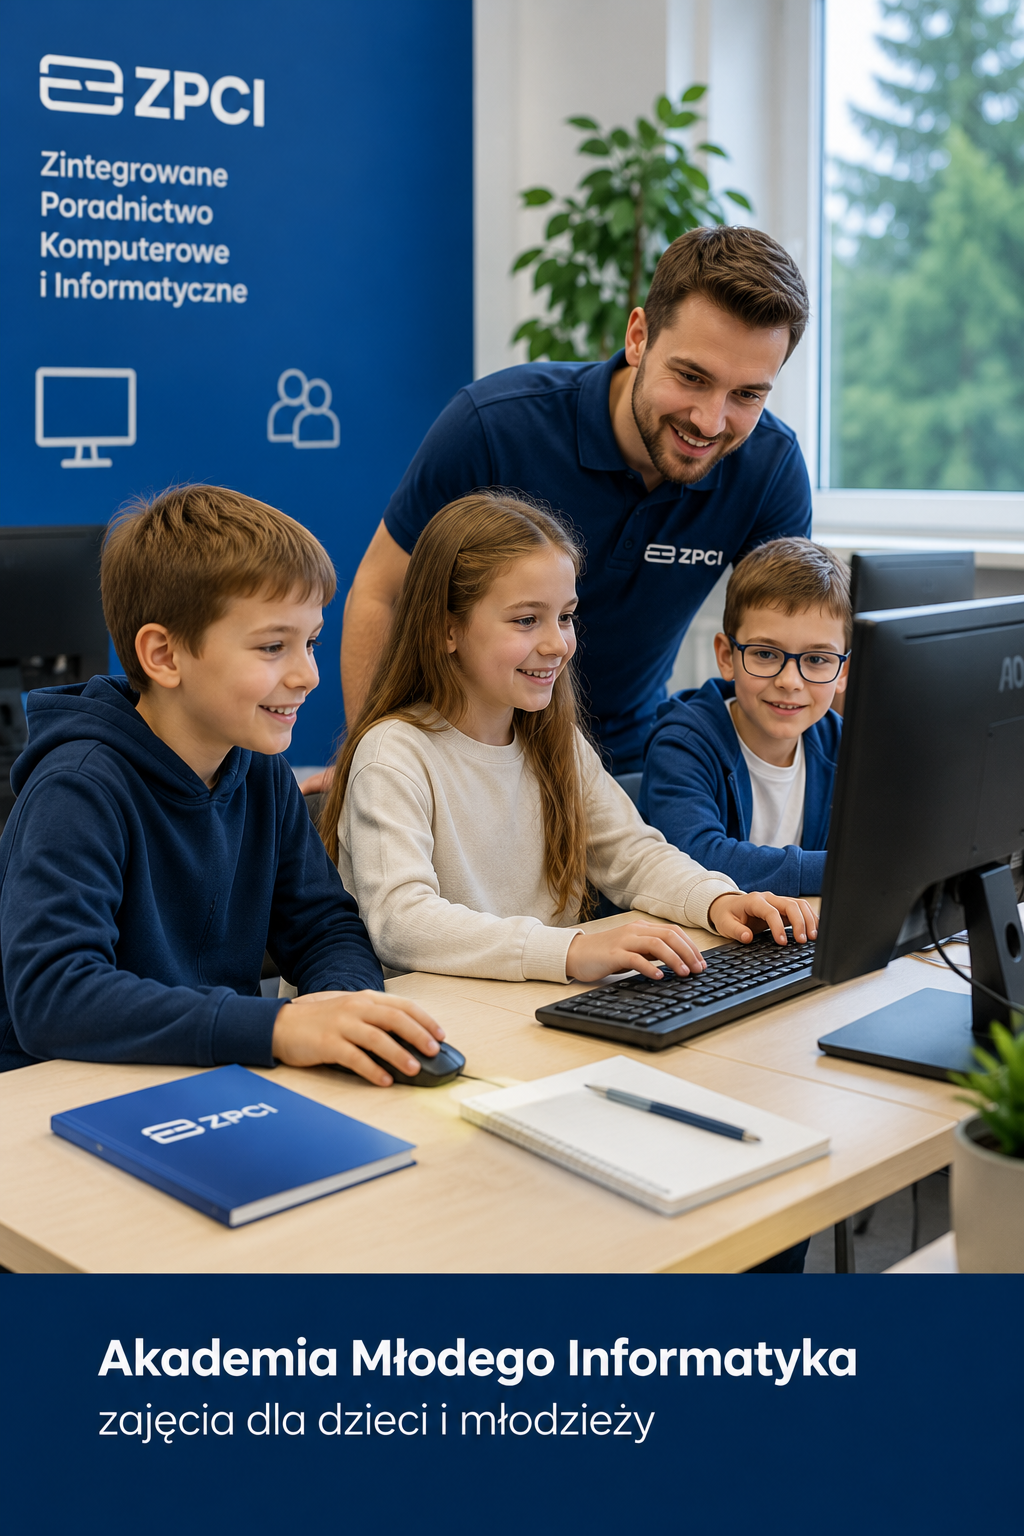
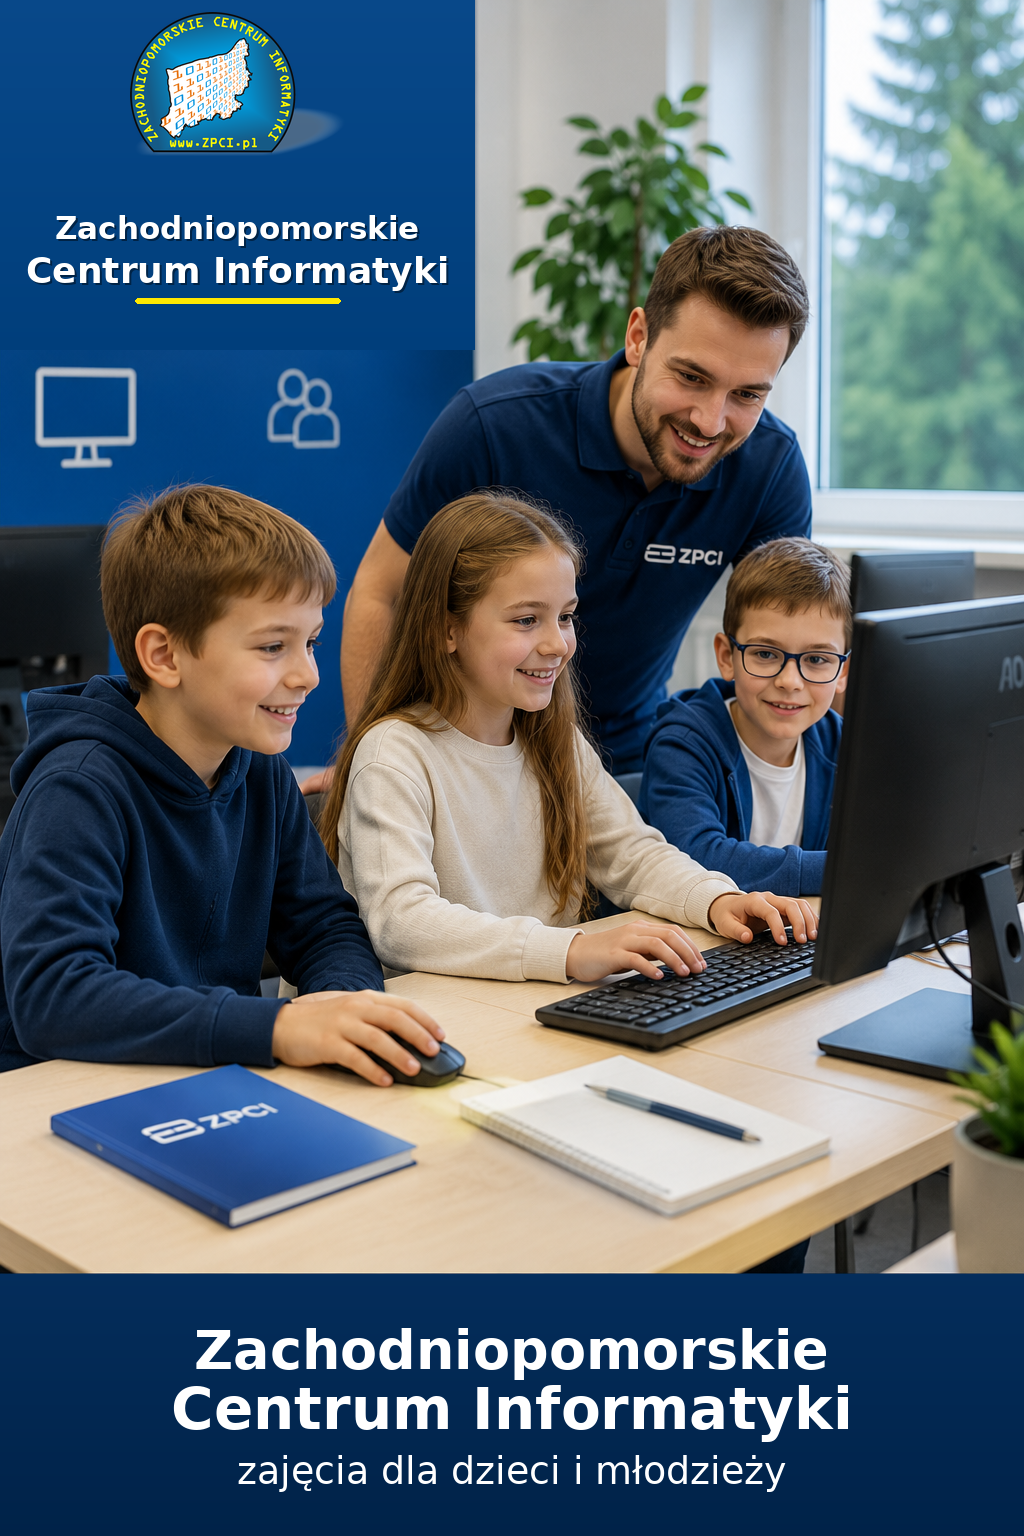
grafika i poprawa index

Changed region(s): [[0.0312, 0.0, 0.4688, 0.25], [0.0938, 0.8438, 0.8438, 0.9688]]

diff --git a/index.html b/index.html
@@ -1289,6 +1289,10 @@
                         <a href="szkoleniakursy/vba.html">
                             VBA
                         </a>
+												
+                        <a href="szkoleniakursy/PowerPoint-Profesjonalne.html">
+                         PowerPoint Profesjonalne
+                        </a>
 
                         <a href="szkoleniakursy/libreoffice-openoffice.html">
                             LibreOffice / OpenOffice
